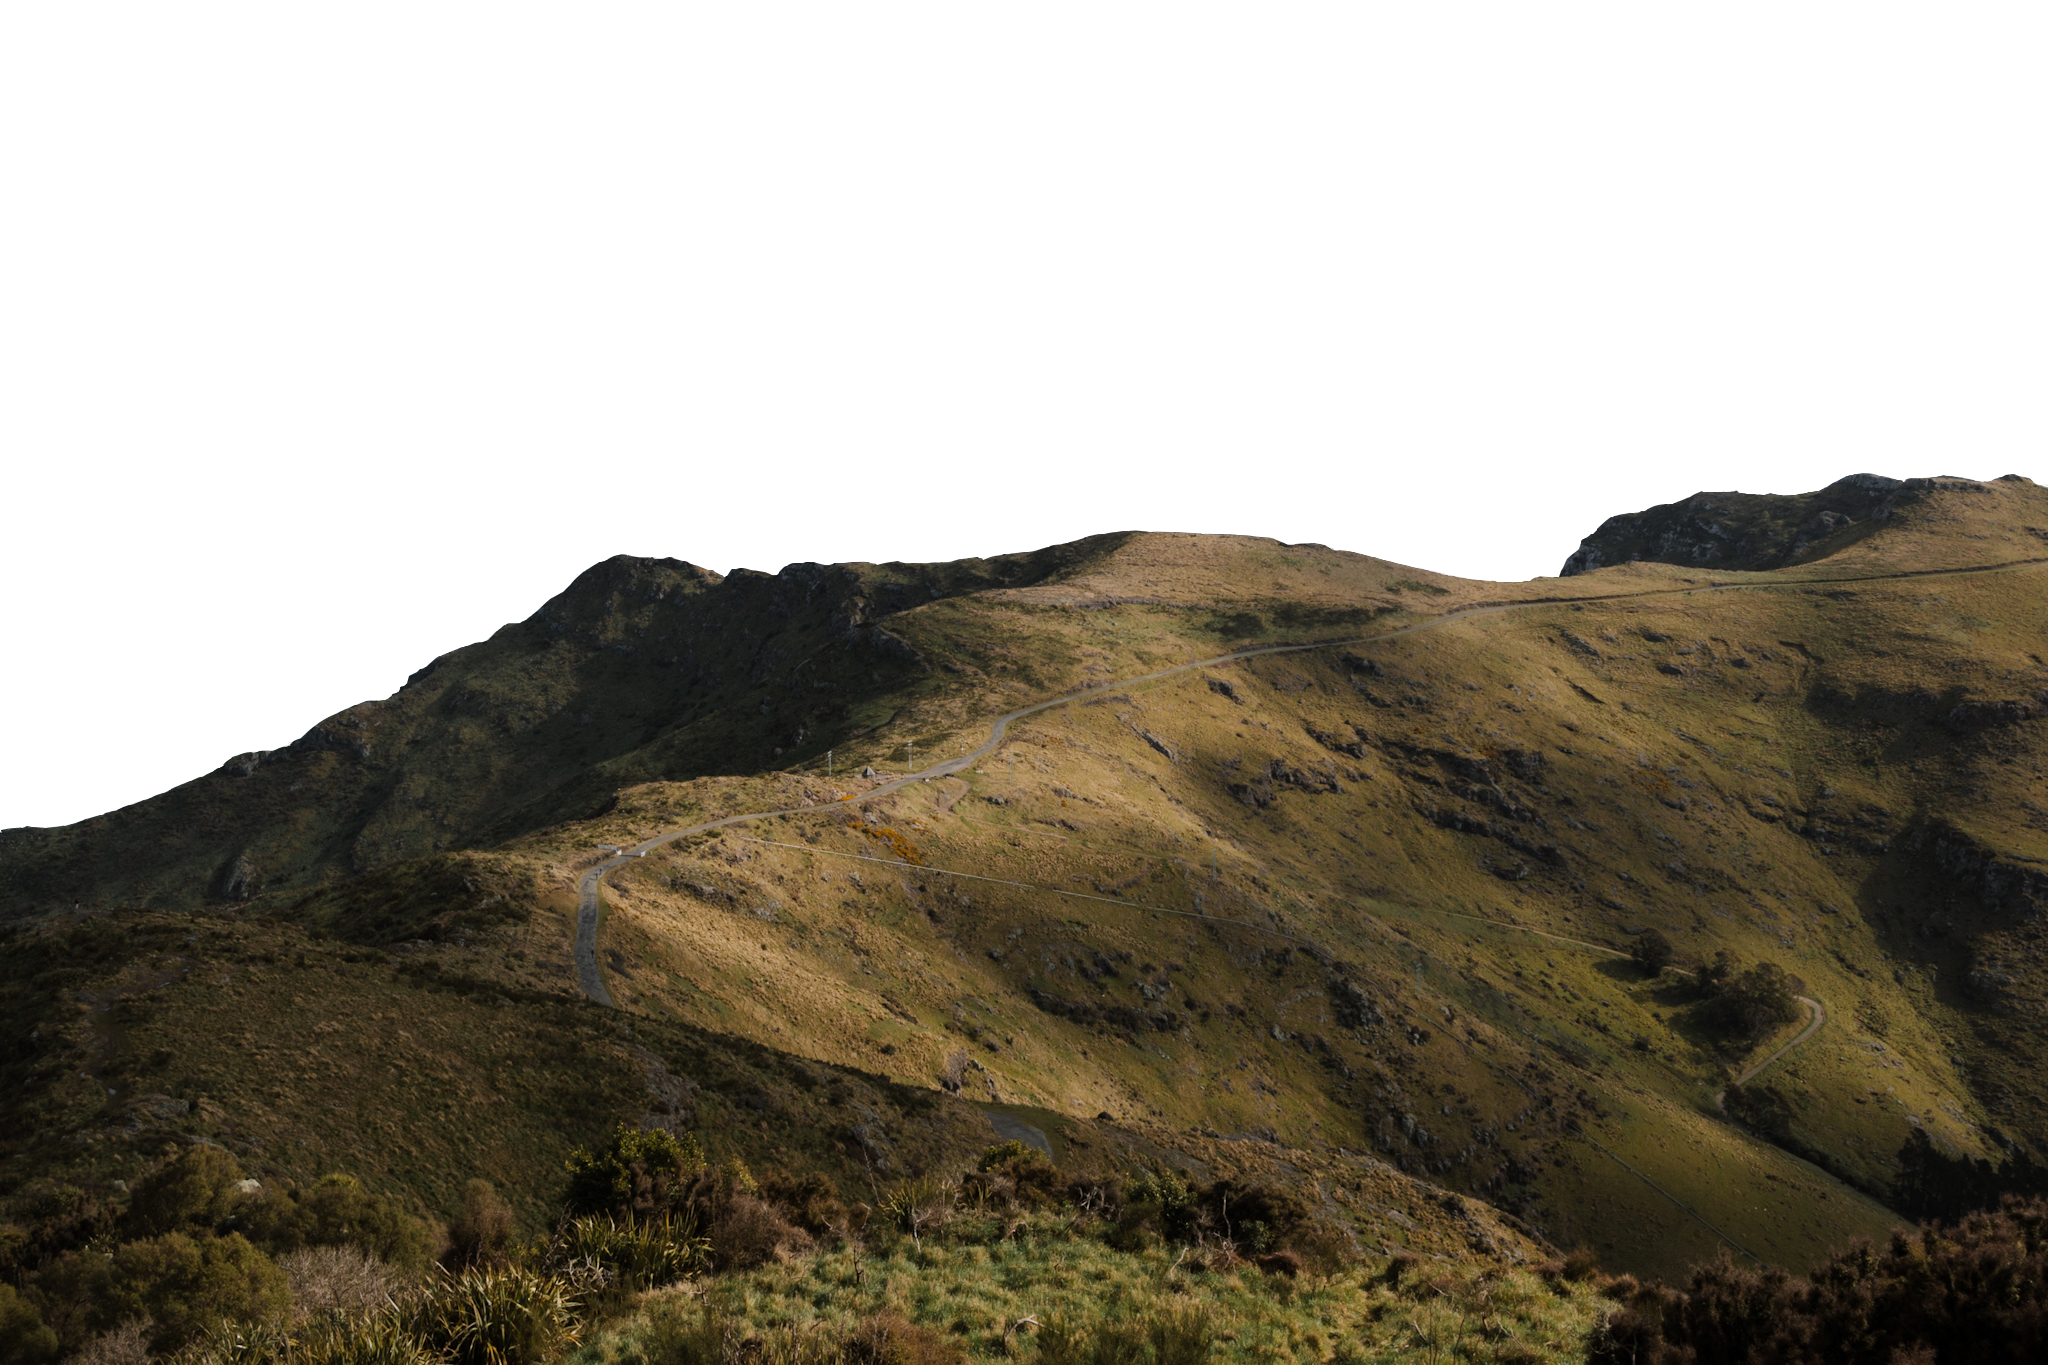
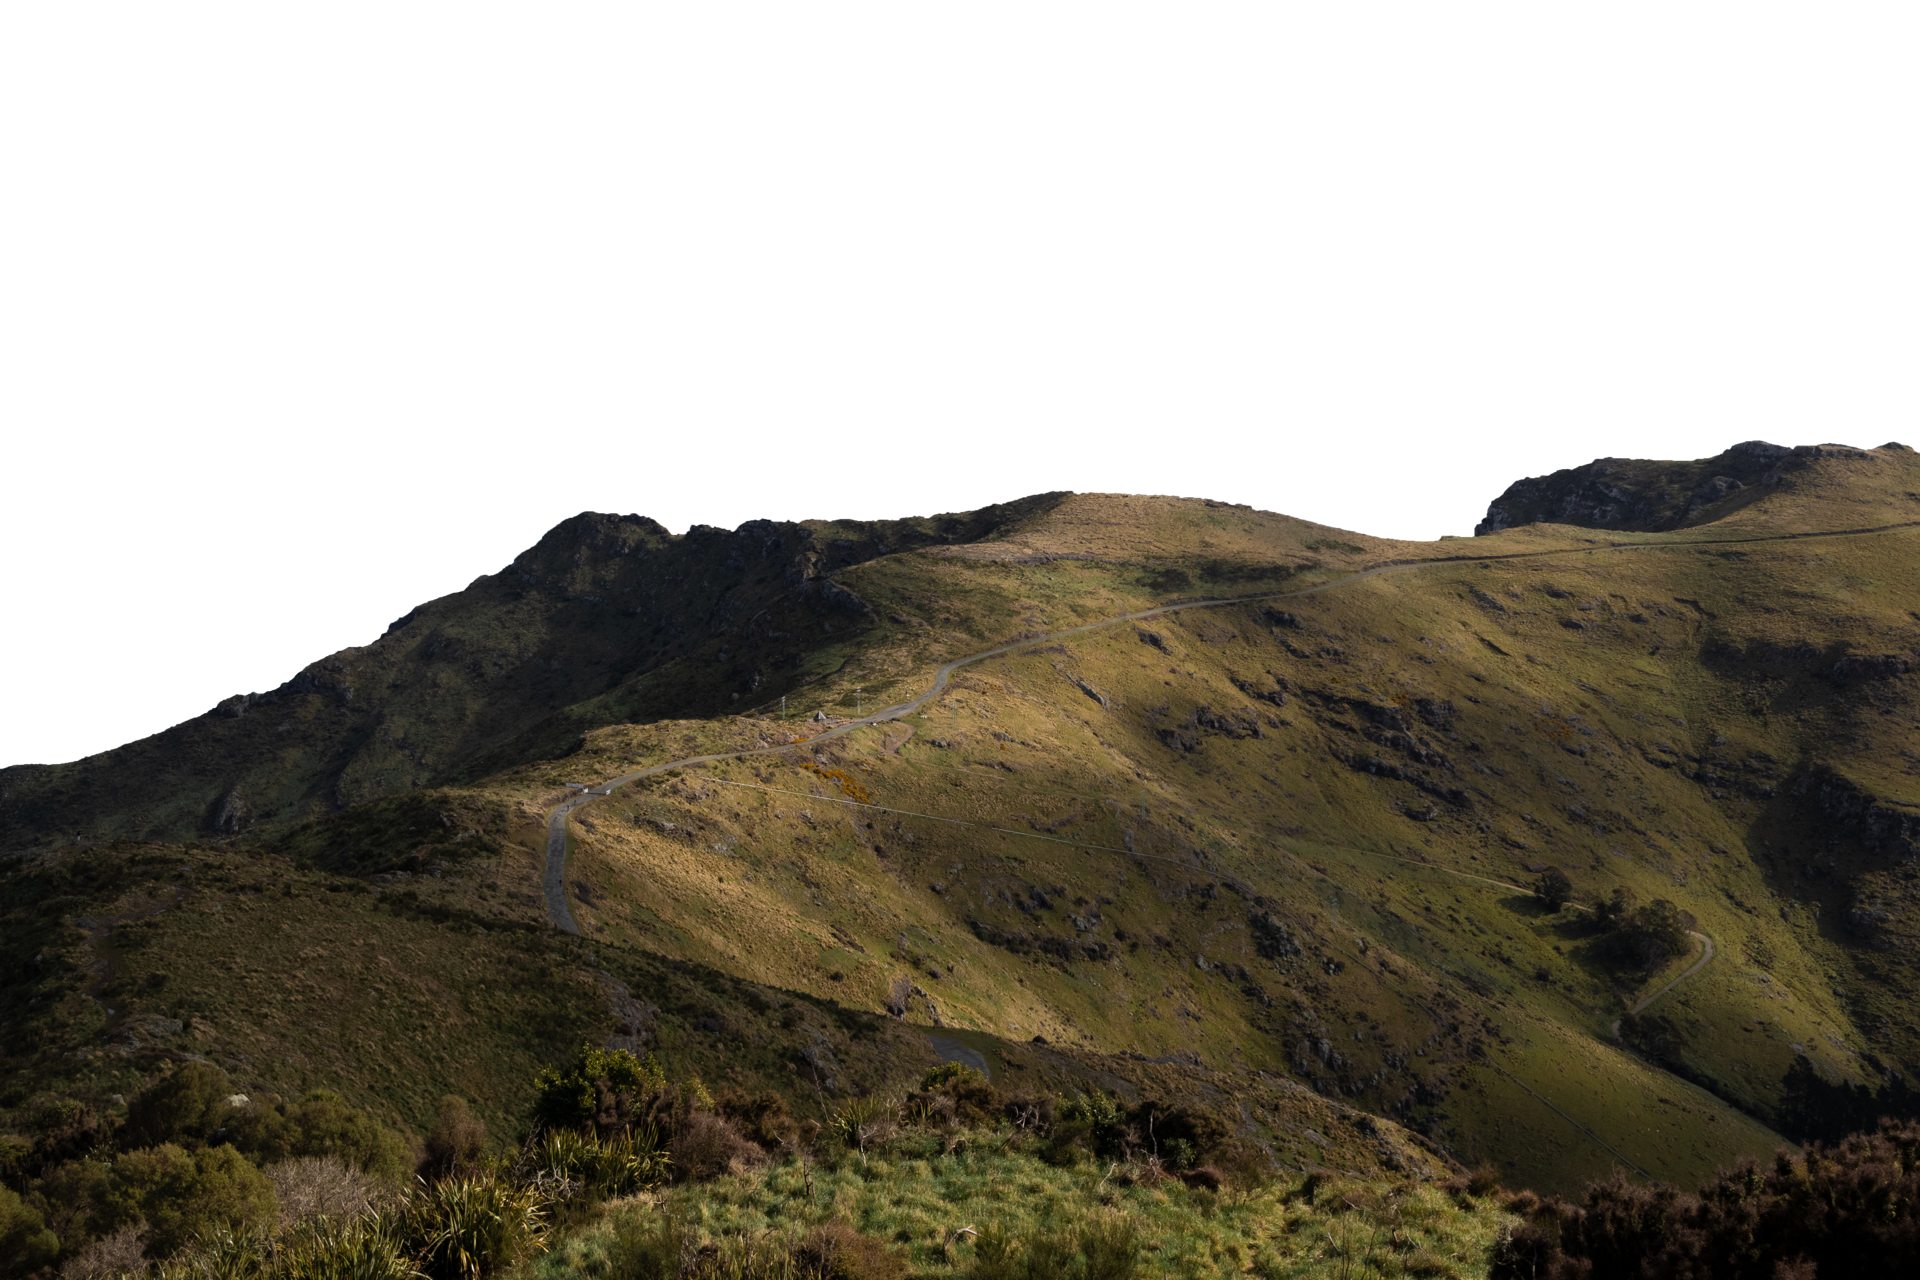
Updated Hero Image and Title font

Changed region(s): [[0.0, 0.3438, 1.0, 1.0], [0.0938, 0.4375, 0.2812, 0.5625], [0.0, 0.5625, 0.0938, 0.625]]

diff --git a/index.html b/index.html
@@ -8,7 +8,7 @@
     <!-- Google Fonts -->
     <link rel="preconnect" href="https://fonts.googleapis.com">
     <link rel="preconnect" href="https://fonts.gstatic.com" crossorigin>
-    <link href="https://fonts.googleapis.com/css2?family=Cormorant+Garamond:wght@400;600;700&family=Inter:wght@400;500;700&display=swap" rel="stylesheet">
+    <link href="https://fonts.googleapis.com/css2?family=Cormorant+Garamond:wght@400;600;700&family=DM+Serif+Text:ital@0;1&family=Inter:wght@400;500;700&display=swap" rel="stylesheet">
 
         <!-- Link to external CSS for styling -->
     <link rel="stylesheet" href="css/styles.css">
@@ -46,9 +46,20 @@
         <section id="hero" class="hero-section">
             <div id="dev"></div>
             <div class="hero-gradient"></div>
-            <img src="images/hero/background.png" id="hero-bg" class="hero-parallax-layer" alt="Background">
-            <img src="images/hero/background-parallax-1.png" id="hero-parallax-1" class="hero-parallax-layer" alt="Parallax Layer 1">
-            <img src="images/hero/background-parallax-2.png" id="hero-parallax-2" class="hero-parallax-layer" alt="Parallax Layer 2">
+            <picture>
+              <source srcset="images/hero/background@2x.jpg" media="(min-resolution: 192dpi)">
+              <img src="images/hero/background.jpg" id="hero-bg" class="hero-parallax-layer" alt="Christchurch Hills">
+            </picture>
+
+            <picture>
+              <source srcset="images/hero/background-parallax-1@2x.png" media="(min-resolution: 192dpi)">
+              <img src="images/hero/background-parallax-1.png" id="hero-parallax-1" class="hero-parallax-layer" alt="Christchurch Hills">
+            </picture>
+
+            <picture>
+              <source srcset="images/hero/background-parallax-2@2x.png" media="(min-resolution: 192dpi)">
+              <img src="images/hero/background-parallax-2.png" id="hero-parallax-2" class="hero-parallax-layer" alt="Christchurch Hills">
+            </picture>
             <div id="hero-text-container" class="hero-text-container">
                 <h1 class="hero-title font-serif-display">
                     Frames<br><i>by</i> James

diff --git a/css/styles.css b/css/styles.css
@@ -167,7 +167,7 @@ body {
 }
 
 .font-serif-display {
-  font-family: "Cormorant Garamond", serif;
+  font-family: "DM Serif Text", "Cormorant Garamond", serif;
 }
 
 .section-tag {

diff --git a/scss/_typography.scss b/scss/_typography.scss
@@ -6,7 +6,7 @@ body {
 }
 
 .font-serif-display {
-    font-family: 'Cormorant Garamond', serif;
+    font-family: 'DM Serif Text', 'Cormorant Garamond', serif;
 }
 
 .section-tag {
